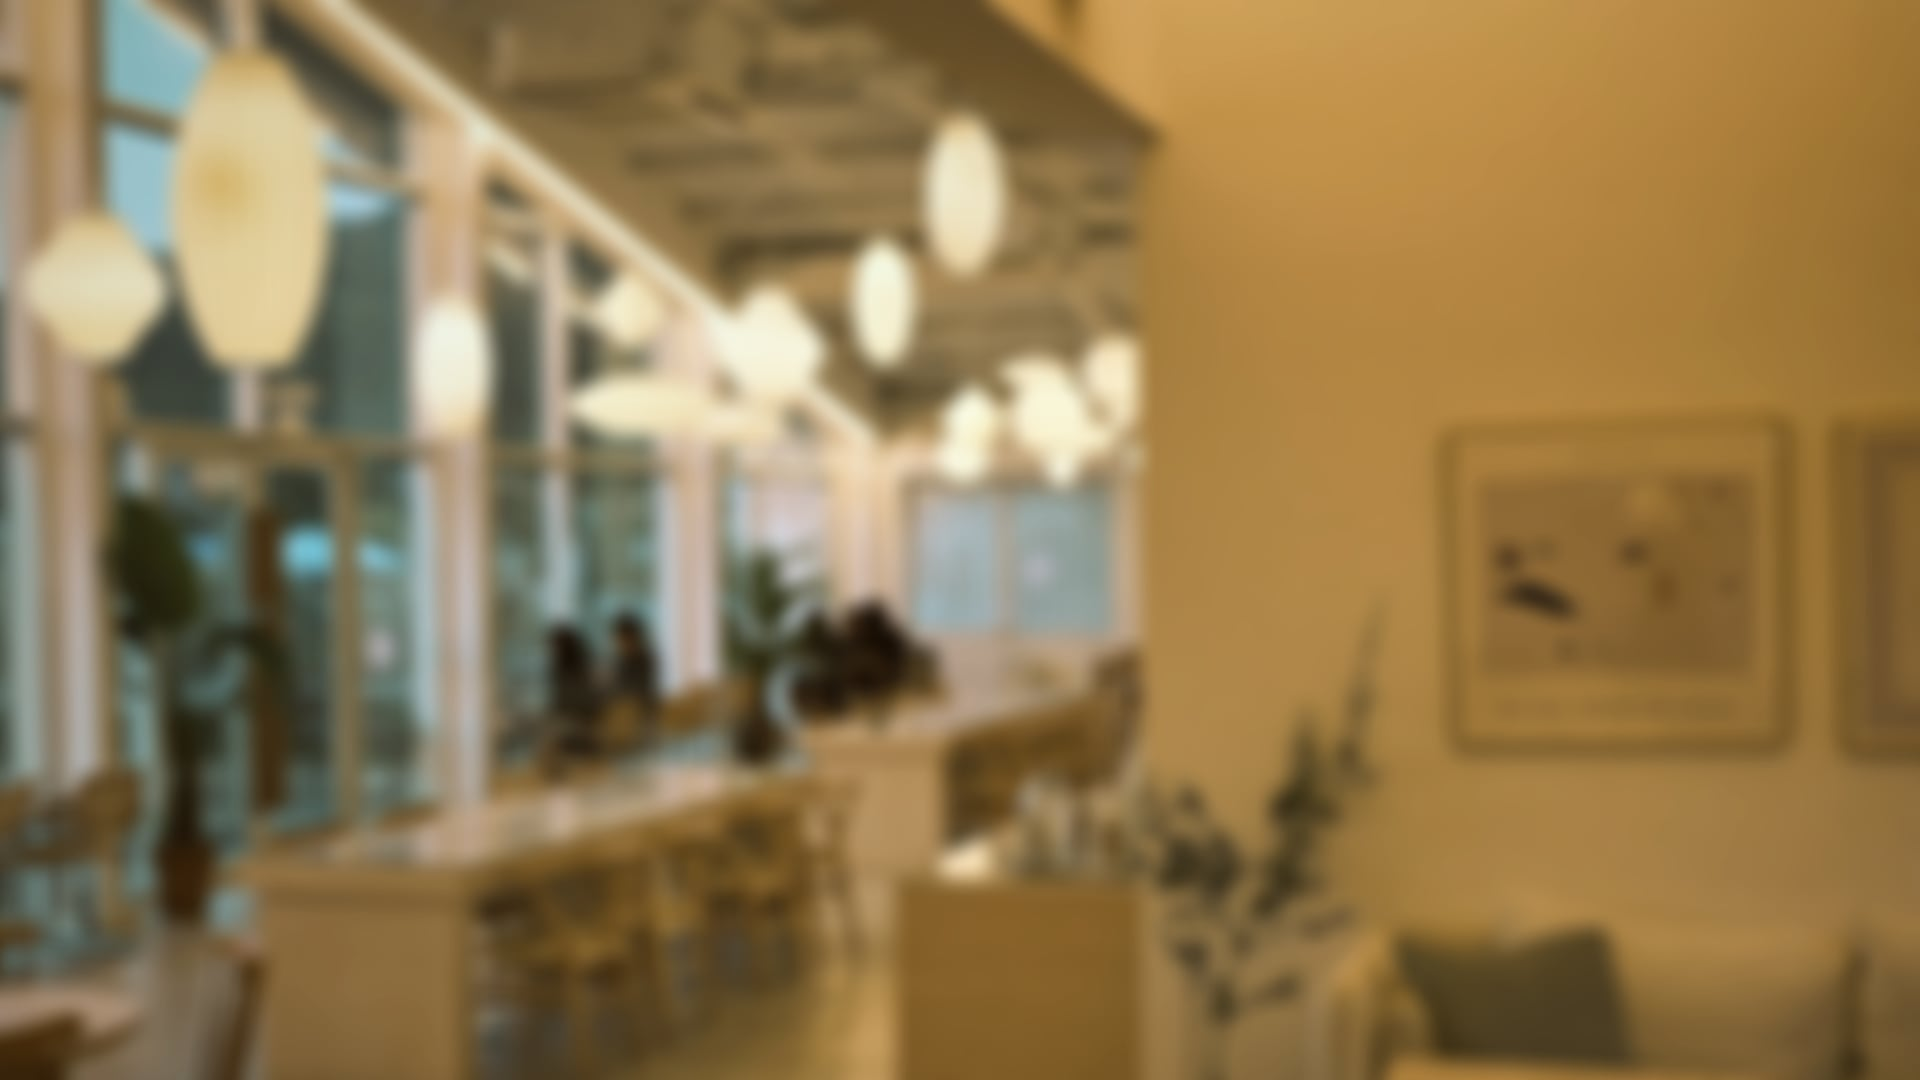
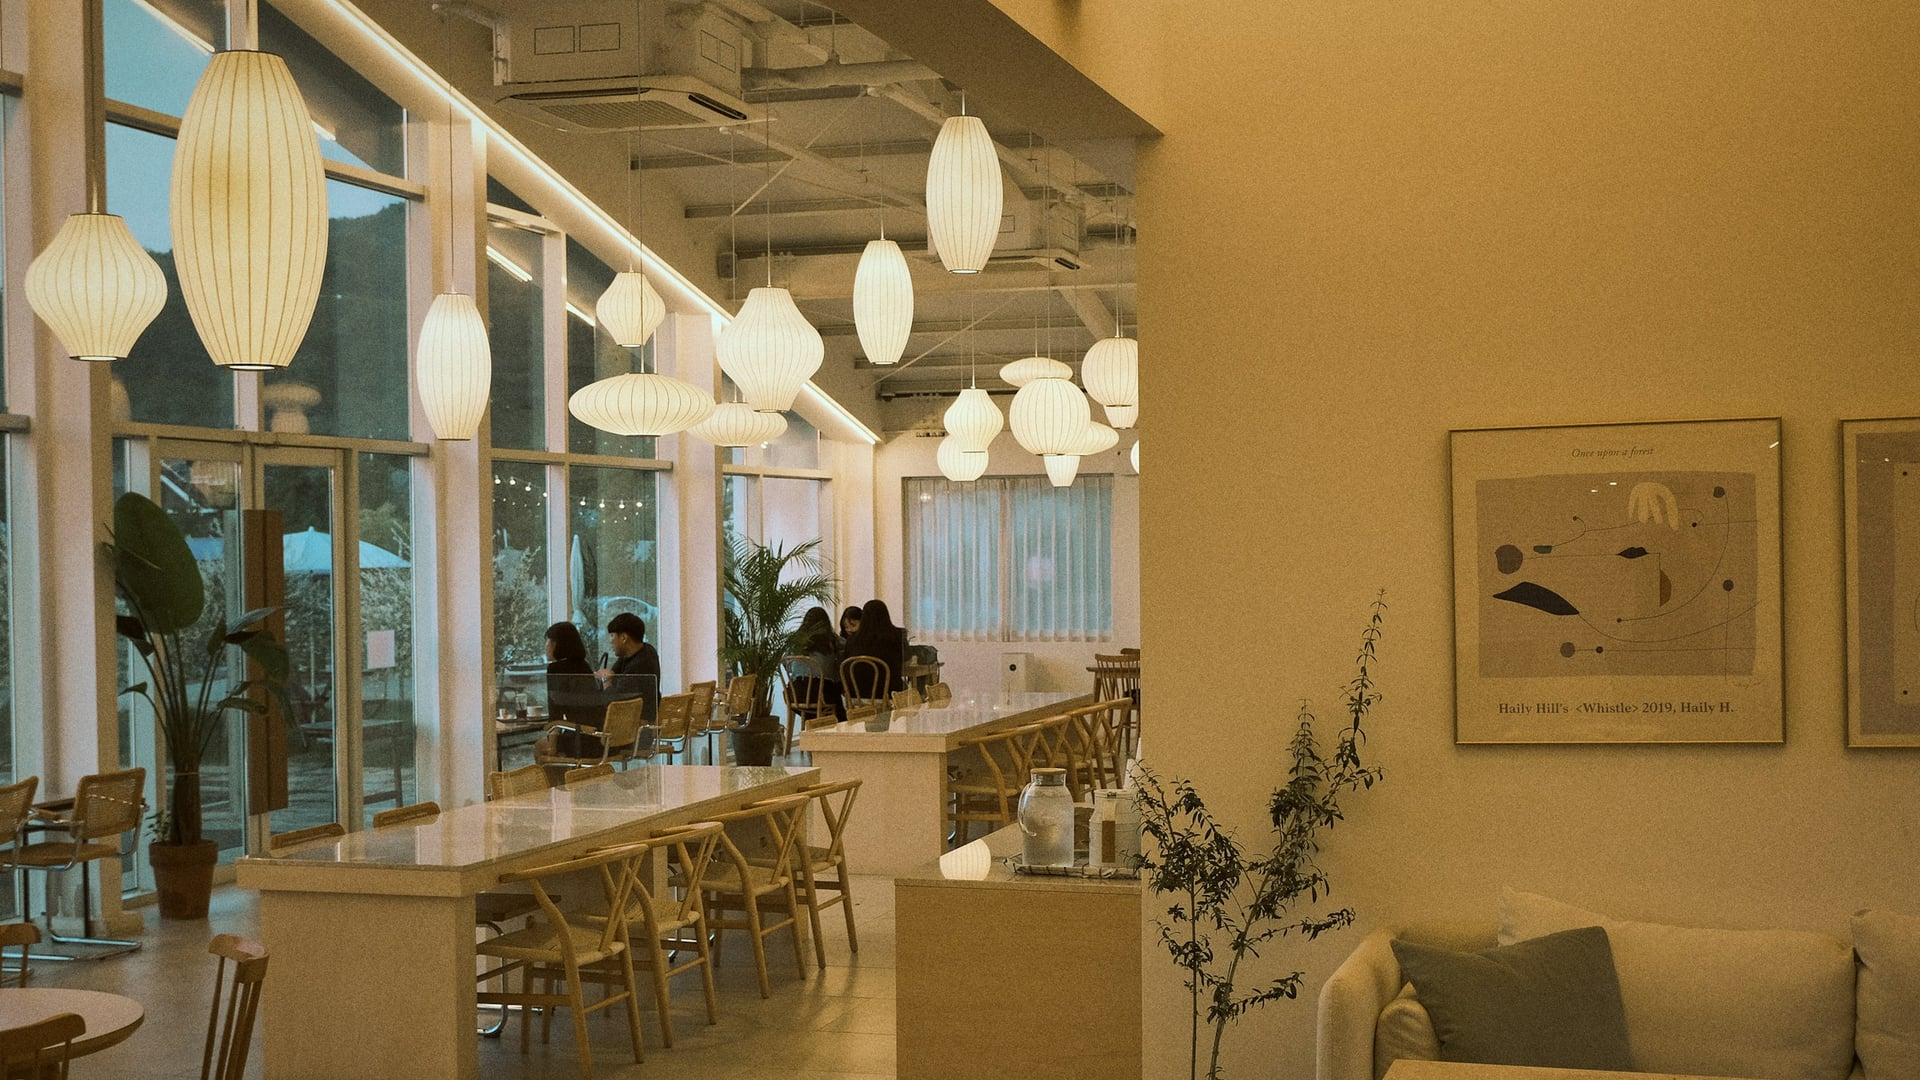
fix(video): mostrar nítidos los fondos de la presentadora

diff --git a/README.md b/README.md
@@ -165,7 +165,7 @@ El administrador usa «crear video» y «confirmar video» en el mismo chat. Des
 1. En el proyecto Supabase de prueba, revisa y aplica la migración `20261118210000_videos_agente_did.sql` con `npm run db:push -- --dry-run` y `npm run db:push`. La tabla solo permite acceso desde el servidor con la clave de servicio.
 2. En **D-ID Studio → Account Settings**, crea una clave de API y verifica el cupo de la prueba. En **Supabase → Edge Functions → Secrets**, configura:
    - `DID_API_KEY`: copia el valor tal como aparece en D-ID, con el formato `usuario:contraseña`.
-   - Para el perfil **Expressive** de Fresura, guarda `DID_AVATAR_ID` con el valor de `presenter.presenter_id`, `DID_SENTIMENT_ID` con el ID de la expresión elegida, `DID_VOICE_ID` con la voz de ElevenLabs y `DID_VOICE_MODEL_ID` con su modelo. Fresura usa Friendly y el modelo `eleven_flash_v2_5`. La cuenta de API debe tener acceso al avatar y a la voz privada. Opcionales: `DID_BACKGROUNDS_URL` con la carpeta HTTPS de los fondos de marca (`https://<sitio>/marca/`, que tiene `fondo-presentadora-producto.jpg`, `-temporada.jpg` y `-marca.jpg`, de 1920 × 1080: fotos de Unsplash con licencia libre para uso comercial, `photo-1589533610925`, `photo-1605528017351` y `photo-1621343607959`, recortadas y desenfocadas); el fondo se elige por el guion (producto, campaña o marca) y sin la variable D-ID usa su fondo liso. `DID_SENTIMENT_ID_ANIMATED` con el ID de una expresión más animada del mismo avatar (se consulta en `GET /expressives/avatars`), que se usa en promociones y lanzamientos.
+   - Para el perfil **Expressive** de Fresura, guarda `DID_AVATAR_ID` con el valor de `presenter.presenter_id`, `DID_SENTIMENT_ID` con el ID de la expresión elegida, `DID_VOICE_ID` con la voz de ElevenLabs y `DID_VOICE_MODEL_ID` con su modelo. Fresura usa Friendly y el modelo `eleven_flash_v2_5`. La cuenta de API debe tener acceso al avatar y a la voz privada. Opcionales: `DID_BACKGROUNDS_URL` con la carpeta HTTPS de los fondos de marca (`https://<sitio>/marca/`, que tiene `fondo-presentadora-producto.jpg`, `-temporada.jpg` y `-marca.jpg`, de 1920 × 1080: fotos de Unsplash con licencia libre para uso comercial, `photo-1589533610925`, `photo-1605528017351` y `photo-1621343607959`, recortadas sin otros ajustes); el fondo se elige por el guion (producto, campaña o marca) y sin la variable D-ID usa su fondo liso. `DID_SENTIMENT_ID_ANIMATED` con el ID de una expresión más animada del mismo avatar (se consulta en `GET /expressives/avatars`), que se usa en promociones y lanzamientos.
    - Para el perfil de foto, configura solo `DID_AVATAR_IMAGE_URL` con la URL HTTPS directa de un JPG o PNG autorizado y `DID_VOICE_ID` con una voz Microsoft. Deja vacíos los tres campos exclusivos de Expressive.
    - Los ID fijan el perfil del video. Si cambias el agente en D-ID Studio, actualiza los secretos correspondientes para reflejar esa elección.
 3. Despliega la función con `npm run functions:deploy -- ia --use-api` y el frontend con el procedimiento de despliegue de este README. Entra con la cuenta administradora y prueba las tres órdenes. El enlace de D-ID caduca. Escribe «estado del video» para recuperar el enlace vigente.
